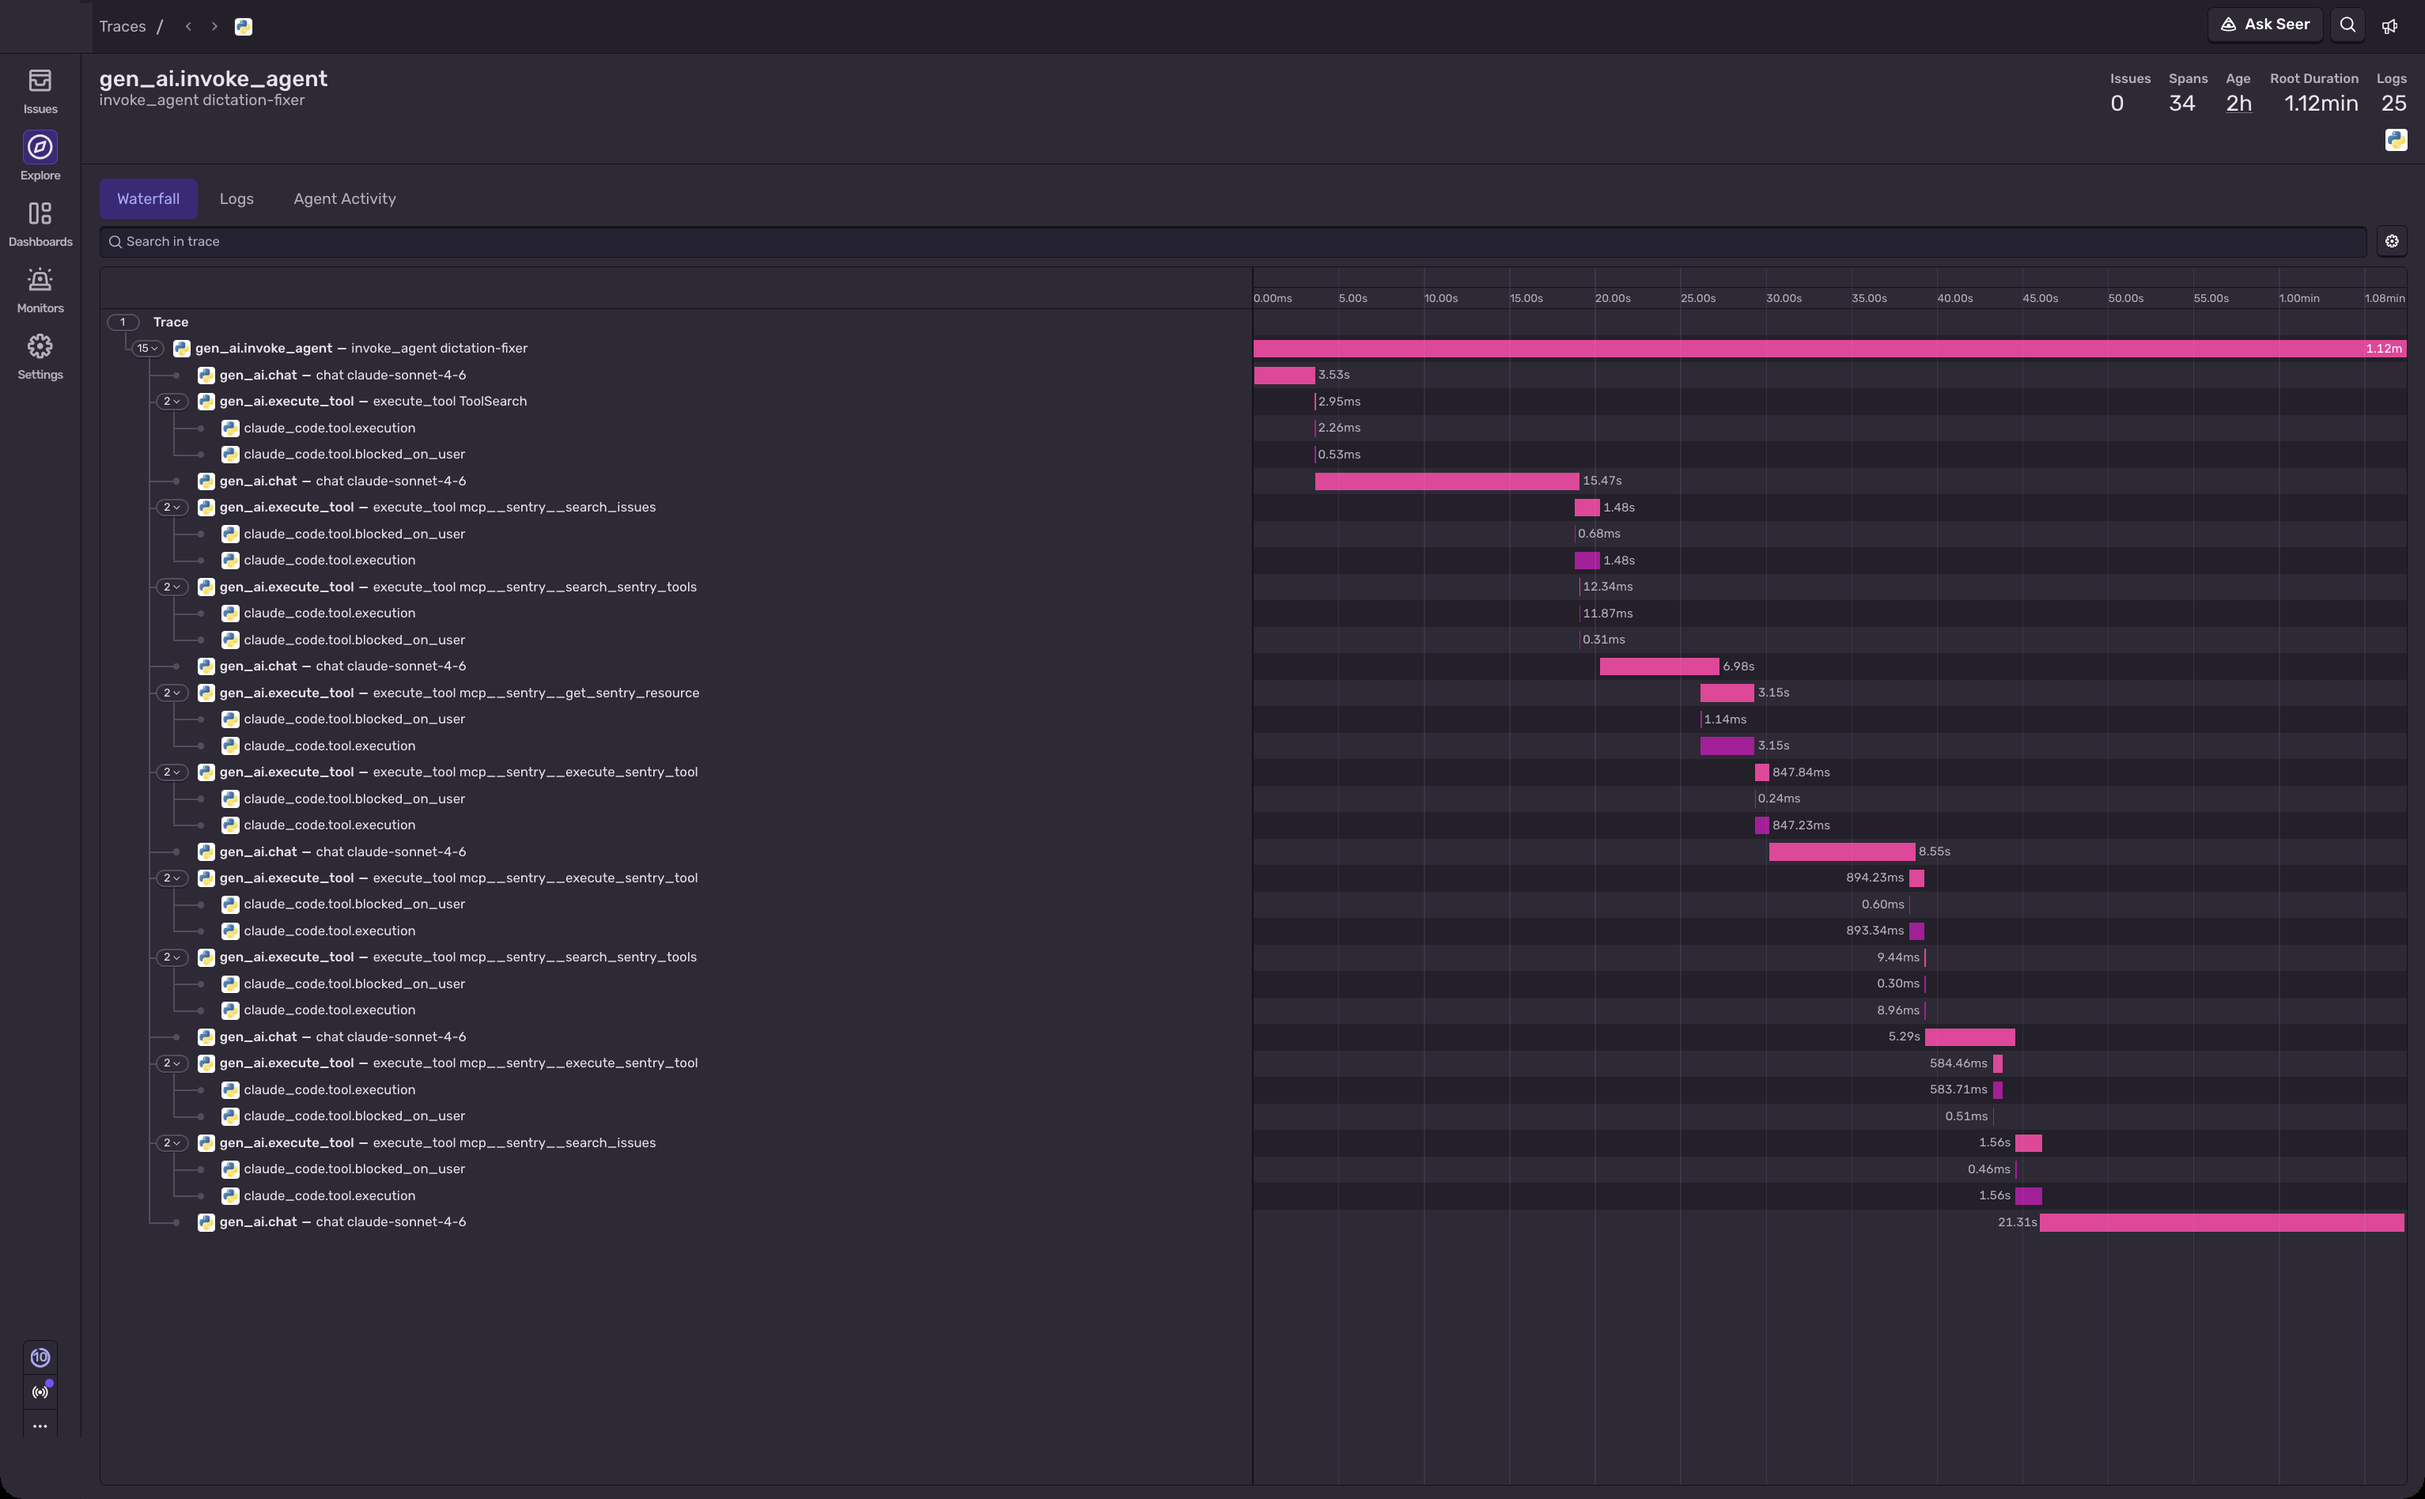
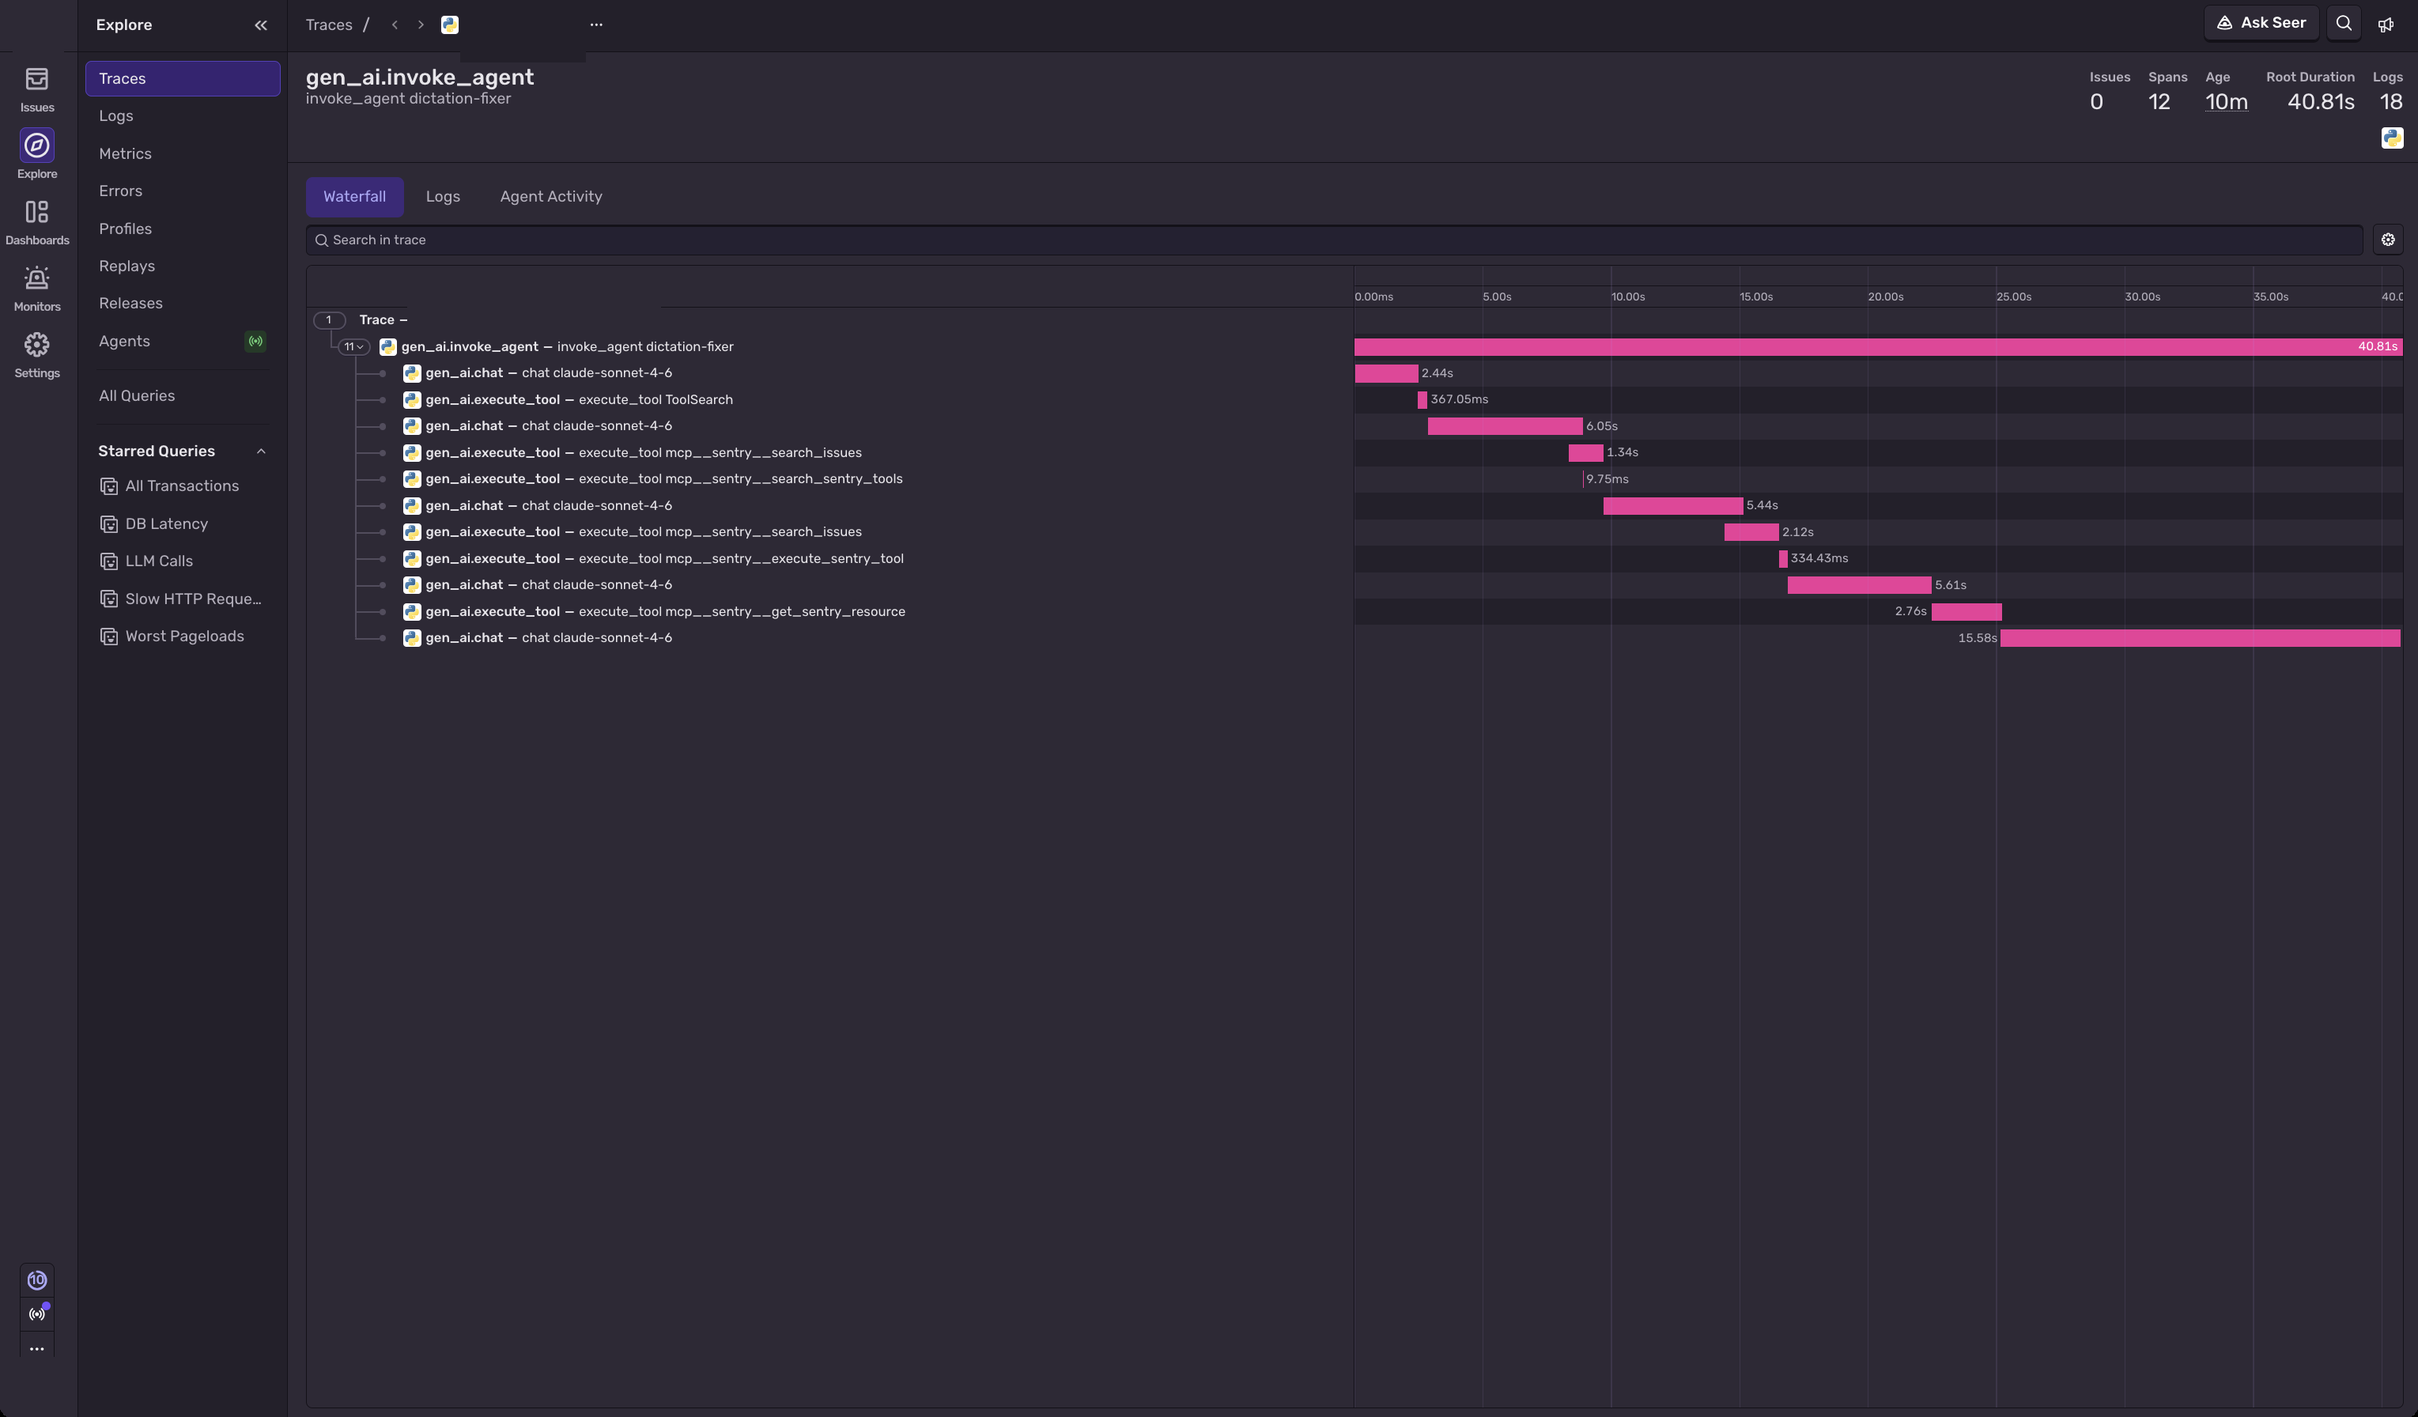
Show the customer-config waterfall and the content-on tool arguments.
The trace is the 12-span content-off run, and the logs show tool_input expanded.

diff --git a/README.md b/README.md
@@ -67,23 +67,21 @@ The config to run is `collector/otelcol.customer.yaml`. It does not write a file
 
    Leave `OTEL_LOG_USER_PROMPTS`, `OTEL_LOG_TOOL_DETAILS`, and `OTEL_LOG_TOOL_CONTENT` unset unless you want the log attributes in the next section. `run_native.py --content` sets all three.
 
-5. In Sentry, open Traces and the new trace, or open Agents > Conversations and follow a trace link from the row's "2 traces". Give the index half a minute. The picture is that interaction trace, the whole tree. The root is `gen_ai.invoke_agent` at 1.12min. Under it are `gen_ai.chat` and `gen_ai.execute_tool`, and each tool still has its short `tool.execution` and `tool.blocked_on_user` children. The page header is 0 issues, 34 spans, root duration 1.12min, 25 logs.
+5. In Sentry, open Traces and the new trace, or open Agents > Conversations and follow a trace link from the row. Give the index half a minute. The picture is that interaction trace, the whole tree, from a content-off run through `collector/otelcol.customer.yaml`. The header is 0 issues, 12 spans, root duration 40.81s, and 18 logs. The root is `gen_ai.invoke_agent`. Under it are `gen_ai.chat` and `gen_ai.execute_tool`. The customer config drops `tool.execution` and `tool.blocked_on_user`, so those children are not in the tree.
 
-![Interaction trace for the clean live collector run. Header: 0 issues, 34 spans, root duration 1.12min, 25 logs.](screenshots/collector-trace.png)
+![Interaction trace from the customer collector config. Content flags off. 0 issues, 12 spans, root duration 40.81s, 18 logs. The tree is invoke_agent, chat, and execute_tool only.](screenshots/collector-trace.png)
 
 ### What you see, and what you don't
 
-The conversation transcript is metadata. Names, durations, token counts, and Sentry's price are on the page. The prompt and the assistant text stay `<not reported>`. Tool rows stay `0 B`. The banner says the inputs and outputs weren't captured. The picture is that content-off run: 7 LLM calls, 0 errors, 113K, $0.159, two traces. The second trace is Haiku. It shares the conversation id, so the page counts it. For a transcript with the real prompt and the assistant text, use Option B.
+With the collector, the conversation transcript does not carry the prompt, the assistant text, or the tool bodies. Those stay `<not reported>`, and tool rows stay `0 B`. For a transcript with the real prompt and the assistant text, use Option B.
 
-![Clean live collector run. The header shows 7 LLM calls, 0 errors, 113K tokens, and $0.159.](screenshots/collector-conversation.png)
+Tool arguments are not on those spans. With `OTEL_LOG_TOOL_DETAILS=1` and `OTEL_LOG_TOOL_CONTENT=1` (`run_native.py --content` sets both, plus `OTEL_LOG_USER_PROMPTS`), the argument JSON is on the logs for that trace: `tool_parameters` on `claude_code.tool_decision`, and `tool_input` on `claude_code.tool_result`. The conversation page still does not render them. The picture is the log table for a content-on run through the same customer config, with one `claude_code.tool_result` open. `tool_input` is expanded and shows `limit`, `organizationSlug`, `projectSlugOrId`, `period`, `query`, and `sort`. `tool_parameters` on that same row shows `mcp_server_name` and `mcp_tool_name`. That run is a different process from the trace above, so the trace above does not have this JSON. There is no tool-result body and no assistant text in the logs either.
 
-Tool arguments are not on those spans. With `OTEL_LOG_TOOL_DETAILS=1` and `OTEL_LOG_TOOL_CONTENT=1` (`run_native.py --content` sets both, plus `OTEL_LOG_USER_PROMPTS`), the argument JSON is on the logs for that trace: `tool_parameters` on `claude_code.tool_decision`, and `tool_parameters` plus `tool_input` on `claude_code.tool_result`. The conversation page still does not render them. The picture is Explore > Logs filtered to a content-on run, which is a different process from the 7-call transcript above, so that transcript's logs do not have this JSON. The filter matches 20 logs. The expanded `claude_code.tool_result` shows `tool_parameters` of `mcp_server_name: sentry` and `mcp_tool_name: search_issues`, and `tool_result_size_bytes` 1017. `tool_input` is present and collapsed (`{ 6 items }`). There is no tool-result body and no assistant text in the logs either.
-
-![Content-on logs for one trace. 20 matching logs, with tool_parameters on an expanded claude_code.tool_result.](screenshots/collector-logs.png)
+![Content-on logs through the customer config. One claude_code.tool_result is open, with tool_input expanded to the arguments and tool_parameters showing the MCP tool name.](screenshots/collector-logs.png)
 
 ### Cost
 
-The $0.159 on the conversation page is Sentry's price of the span token attributes at the 5-minute cache-write rate ($3.75 per million). The real cost is the CLI's `result.total_cost_usd`, which matches `cost_usd` on the `claude_code.api_request` logs. On this run that is $0.215. The gap is the 1-hour cache-write rate ($6 per million) the CLI uses. The page does not show that number. Read the CLI total, or sum `cost_usd` on the logs.
+Sentry prices the span token attributes at the 5-minute cache-write rate ($3.75 per million). The CLI's `result.total_cost_usd` matches `cost_usd` on the `claude_code.api_request` logs and uses the 1-hour cache-write rate ($6 per million). The conversation page does not show the CLI total. Read the CLI total, or sum `cost_usd` on the logs.
 
 ### Canary
 
